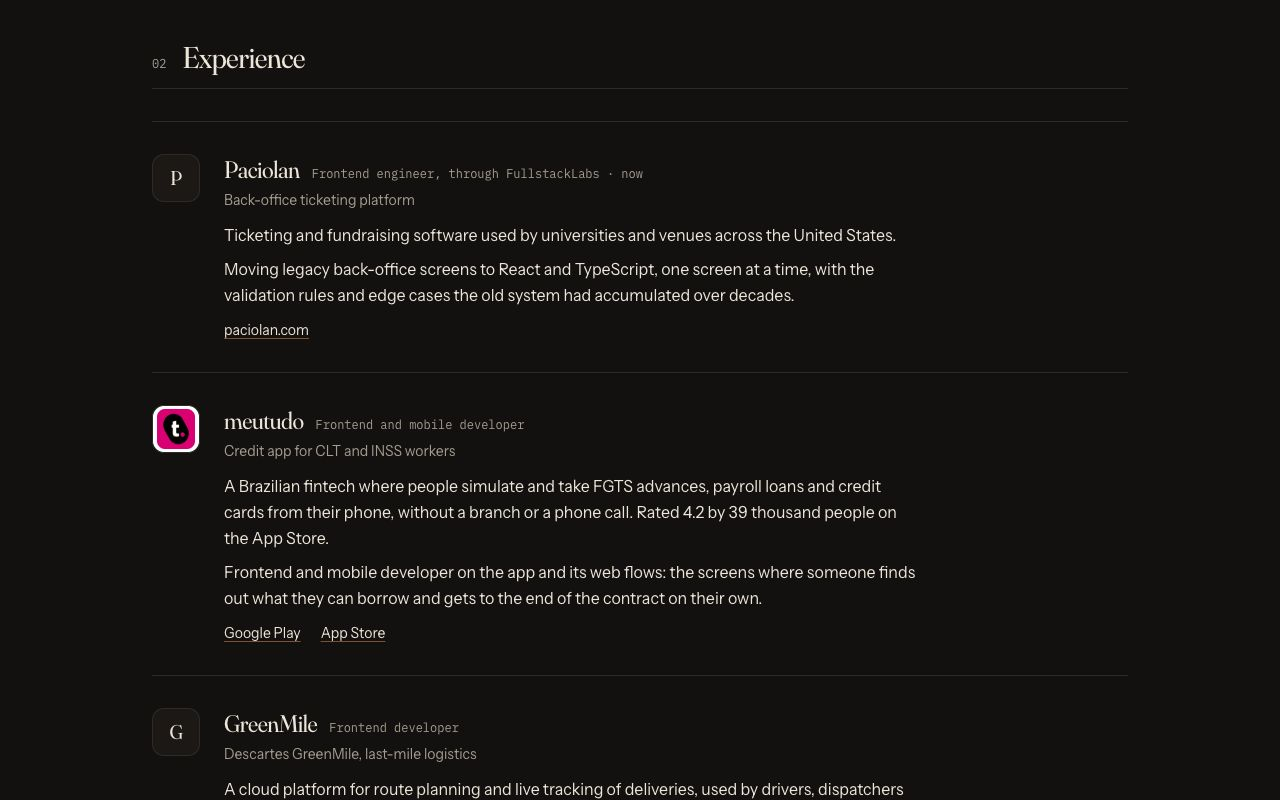
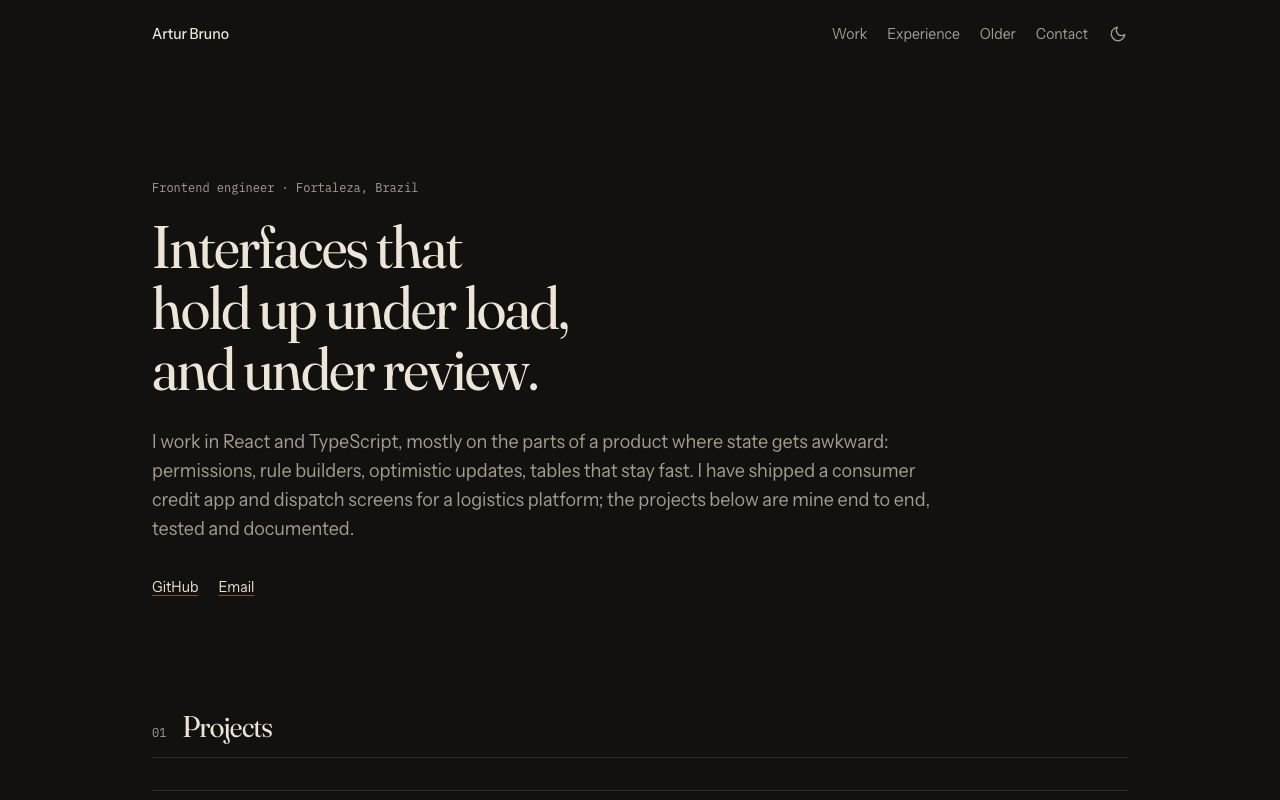
Add a light and dark theme switch
The page followed the system only. A button in the header now cycles
system, light and dark; the choice lives in localStorage and a small
inline script applies it before the first paint. The dark tokens are
declared for an explicit choice and for a dark system without one, so
either choice wins over the other. The header also stops wrapping the
name on phones.

diff --git a/src/components/theme-toggle.tsx b/src/components/theme-toggle.tsx
@@ -1,0 +1,92 @@
+'use client'
+
+import { useEffect, useState } from 'react'
+
+import { nextTheme, parseTheme, THEME_KEY, type ThemeChoice } from '@/lib/theme'
+
+const LABEL: Record<ThemeChoice, string> = {
+  system: 'Theme: follows your system',
+  light: 'Theme: light',
+  dark: 'Theme: dark',
+}
+
+function readChoice(): ThemeChoice {
+  try {
+    return parseTheme(localStorage.getItem(THEME_KEY))
+  } catch {
+    return 'system'
+  }
+}
+
+function apply(choice: ThemeChoice): void {
+  const root = document.documentElement
+  if (choice === 'system') delete root.dataset.theme
+  else root.dataset.theme = choice
+  try {
+    if (choice === 'system') localStorage.removeItem(THEME_KEY)
+    else localStorage.setItem(THEME_KEY, choice)
+  } catch {
+    // Storage blocked: the choice lasts for this page view only.
+  }
+}
+
+/** Cycles system, light, dark. The boot script in <head> has already applied the stored choice. */
+export function ThemeToggle() {
+  const [choice, setChoice] = useState<ThemeChoice | null>(null)
+  useEffect(() => {
+    // eslint-disable-next-line react-hooks/set-state-in-effect -- reading storage after hydration, once
+    setChoice(readChoice())
+  }, [])
+
+  const current = choice ?? 'system'
+  return (
+    <button
+      type="button"
+      onClick={() => {
+        const next = nextTheme(current)
+        apply(next)
+        setChoice(next)
+      }}
+      aria-label={`${LABEL[current]}. Change theme`}
+      title={LABEL[current]}
+      className="text-muted hover:text-ink -m-2 inline-flex h-9 w-9 items-center justify-center rounded-full p-2"
+    >
+      <Icon choice={current} />
+    </button>
+  )
+}
+
+function Icon({ choice }: { choice: ThemeChoice }) {
+  const common = {
+    width: 18,
+    height: 18,
+    viewBox: '0 0 24 24',
+    fill: 'none',
+    stroke: 'currentColor',
+    strokeWidth: 1.8,
+    strokeLinecap: 'round' as const,
+    strokeLinejoin: 'round' as const,
+    'aria-hidden': true,
+  }
+  if (choice === 'light') {
+    return (
+      <svg {...common}>
+        <circle cx="12" cy="12" r="4" />
+        <path d="M12 2v2M12 20v2M4.9 4.9l1.4 1.4M17.7 17.7l1.4 1.4M2 12h2M20 12h2M4.9 19.1l1.4-1.4M17.7 6.3l1.4-1.4" />
+      </svg>
+    )
+  }
+  if (choice === 'dark') {
+    return (
+      <svg {...common}>
+        <path d="M21 12.8A9 9 0 1 1 11.2 3a7 7 0 0 0 9.8 9.8z" />
+      </svg>
+    )
+  }
+  return (
+    <svg {...common}>
+      <circle cx="12" cy="12" r="9" />
+      <path d="M12 3a9 9 0 0 1 0 18z" fill="currentColor" stroke="none" />
+    </svg>
+  )
+}

diff --git a/src/app/page.tsx b/src/app/page.tsx
@@ -4,6 +4,7 @@ import { ExperienceRow } from '@/components/experience-row'
 import { ProjectCard } from '@/components/project-card'
 import { RepoRow } from '@/components/repo-row'
 import { Section } from '@/components/section'
+import { ThemeToggle } from '@/components/theme-toggle'
 import { experience, featured, otherWork, profile } from '@/data/projects'
 import { loadProjects, loadRepos } from '@/lib/github'
 
@@ -21,33 +22,36 @@ export default async function Home() {
       </a>
 
       <header className="flex items-center justify-between py-6 text-sm">
-        <Link href="/" className="font-medium">
+        <Link href="/" className="font-medium whitespace-nowrap">
           {profile.name}
         </Link>
-        <nav aria-label="Sections">
-          <ul className="text-muted flex gap-5">
-            <li>
-              <a href="#featured" className="hover:text-ink">
-                Work
-              </a>
-            </li>
-            <li>
-              <a href="#experience" className="hover:text-ink">
-                Experience
-              </a>
-            </li>
-            <li>
-              <a href="#other" className="hover:text-ink">
-                Older
-              </a>
-            </li>
-            <li>
-              <a href="#contact" className="hover:text-ink">
-                Contact
-              </a>
-            </li>
-          </ul>
-        </nav>
+        <div className="flex items-center gap-3 sm:gap-5">
+          <nav aria-label="Sections">
+            <ul className="text-muted flex gap-3 sm:gap-5">
+              <li>
+                <a href="#featured" className="hover:text-ink">
+                  Work
+                </a>
+              </li>
+              <li>
+                <a href="#experience" className="hover:text-ink">
+                  Experience
+                </a>
+              </li>
+              <li>
+                <a href="#other" className="hover:text-ink">
+                  Older
+                </a>
+              </li>
+              <li>
+                <a href="#contact" className="hover:text-ink">
+                  Contact
+                </a>
+              </li>
+            </ul>
+          </nav>
+          <ThemeToggle />
+        </div>
       </header>
 
       <main>

diff --git a/test/theme.test.ts b/test/theme.test.ts
@@ -1,0 +1,38 @@
+import { describe, expect, it } from 'vitest'
+
+import { nextTheme, parseTheme, THEME_BOOT_SCRIPT } from '@/lib/theme'
+
+describe('theme', () => {
+  it('cycles system, light, dark', () => {
+    expect(nextTheme('system')).toBe('light')
+    expect(nextTheme('light')).toBe('dark')
+    expect(nextTheme('dark')).toBe('system')
+  })
+
+  it('treats anything unknown as system', () => {
+    expect(parseTheme('dark')).toBe('dark')
+    expect(parseTheme(null)).toBe('system')
+    expect(parseTheme('sepia')).toBe('system')
+  })
+
+  it('boot script applies only valid stored values and survives blocked storage', () => {
+    const run = (stored: string | null, throws = false) => {
+      const dataset: Record<string, string> = {}
+      const localStorage = {
+        getItem: () => {
+          if (throws) throw new Error('blocked')
+          return stored
+        },
+      }
+      new Function('document', 'localStorage', THEME_BOOT_SCRIPT)(
+        { documentElement: { dataset } },
+        localStorage,
+      )
+      return dataset.theme
+    }
+    expect(run('dark')).toBe('dark')
+    expect(run('light')).toBe('light')
+    expect(run('<script>')).toBeUndefined()
+    expect(run(null, true)).toBeUndefined()
+  })
+})

diff --git a/src/lib/theme.ts b/src/lib/theme.ts
@@ -1,0 +1,21 @@
+export type ThemeChoice = 'light' | 'dark' | 'system'
+
+export const THEME_KEY = 'theme'
+
+const ORDER: readonly ThemeChoice[] = ['system', 'light', 'dark']
+
+/** The next choice when the toggle is pressed: system, light, dark, back to system. */
+export function nextTheme(current: ThemeChoice): ThemeChoice {
+  return ORDER[(ORDER.indexOf(current) + 1) % ORDER.length] ?? 'system'
+}
+
+export function parseTheme(value: unknown): ThemeChoice {
+  return value === 'light' || value === 'dark' ? value : 'system'
+}
+
+/**
+ * Runs in <head> before the first paint, as a plain string, so the page
+ * never flashes the wrong theme. Kept tiny and dependency free; storage can
+ * throw in private windows, and then the system setting simply applies.
+ */
+export const THEME_BOOT_SCRIPT = `(function(){try{var t=localStorage.getItem('${THEME_KEY}');if(t==='light'||t==='dark')document.documentElement.dataset.theme=t}catch(e){}})()`

diff --git a/src/app/layout.tsx b/src/app/layout.tsx
@@ -3,6 +3,7 @@ import type { ReactNode } from 'react'
 import { Fraunces, IBM_Plex_Mono, Instrument_Sans } from 'next/font/google'
 
 import { profile } from '@/data/projects'
+import { THEME_BOOT_SCRIPT } from '@/lib/theme'
 
 import './globals.css'
 
@@ -41,7 +42,14 @@ export const metadata: Metadata = {
 
 export default function RootLayout({ children }: { children: ReactNode }) {
   return (
-    <html lang="en" className={`${fraunces.variable} ${instrument.variable} ${plexMono.variable}`}>
+    <html
+      lang="en"
+      className={`${fraunces.variable} ${instrument.variable} ${plexMono.variable}`}
+      suppressHydrationWarning
+    >
+      <head>
+        <script dangerouslySetInnerHTML={{ __html: THEME_BOOT_SCRIPT }} />
+      </head>
       <body>{children}</body>
     </html>
   )

diff --git a/src/app/globals.css b/src/app/globals.css
@@ -15,8 +15,13 @@
   color-scheme: light;
 }
 
+/*
+  Three states: an explicit choice on <html data-theme>, or none, which
+  follows the system. The same dark tokens are written twice so that an
+  explicit "light" wins over a dark system and vice versa.
+*/
 @media (prefers-color-scheme: dark) {
-  :root {
+  :root:not([data-theme='light']) {
     --bg: #131110;
     --surface: #1b1816;
     --ink: #ece5d8;
@@ -26,6 +31,17 @@
     --accent-ink: #1b1917;
     color-scheme: dark;
   }
+}
+
+:root[data-theme='dark'] {
+  --bg: #131110;
+  --surface: #1b1816;
+  --ink: #ece5d8;
+  --muted: #a49c8e;
+  --line: #2e2a26;
+  --accent: #e6905f;
+  --accent-ink: #1b1917;
+  color-scheme: dark;
 }
 
 @theme inline {

diff --git a/README.md b/README.md
@@ -43,5 +43,7 @@ then `actions/deploy-pages`. The repository's Pages source has to be set to
 
 Warm paper background, ink text, one terracotta accent, and Fraunces for
 headings with its optical size and softness axes set. Light and dark follow
-the system preference. Reduced motion is respected and everything is reachable
+the system until you pick one with the button in the header; the choice is
+kept in localStorage and applied by a tiny script in `<head>` before the
+first paint, so there is no flash of the wrong theme. Reduced motion is respected and everything is reachable
 by keyboard, including a skip link.
